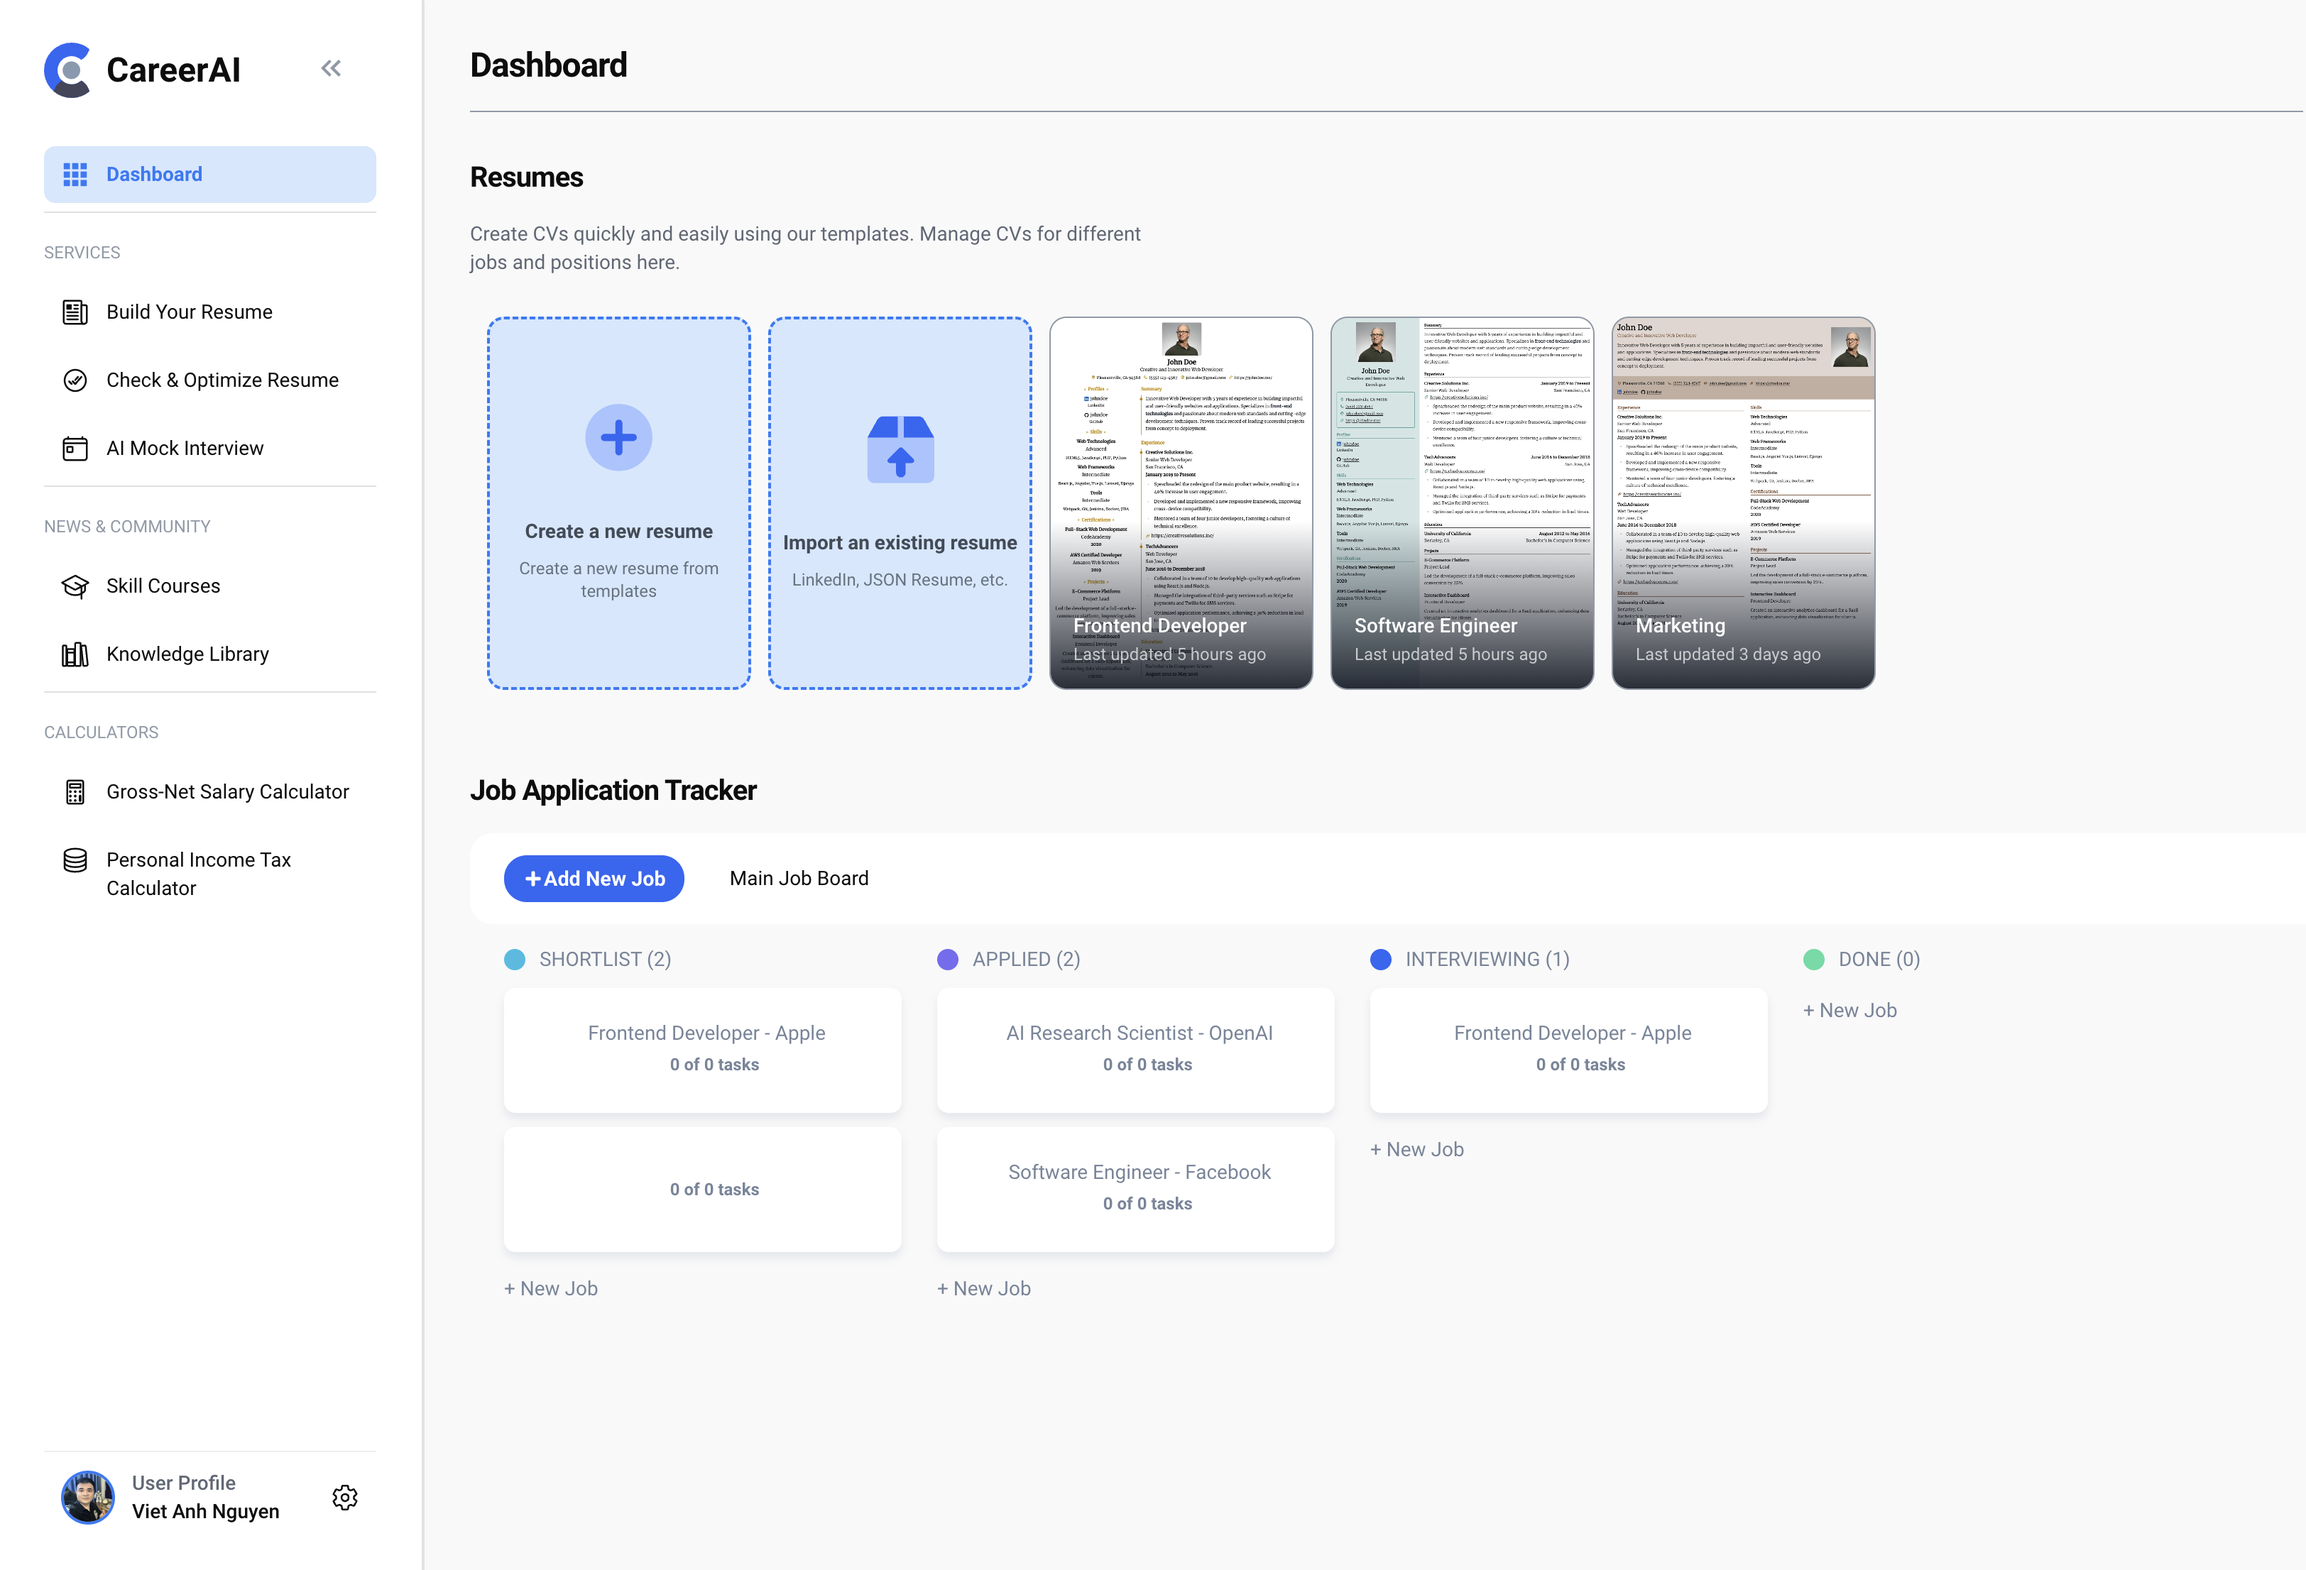
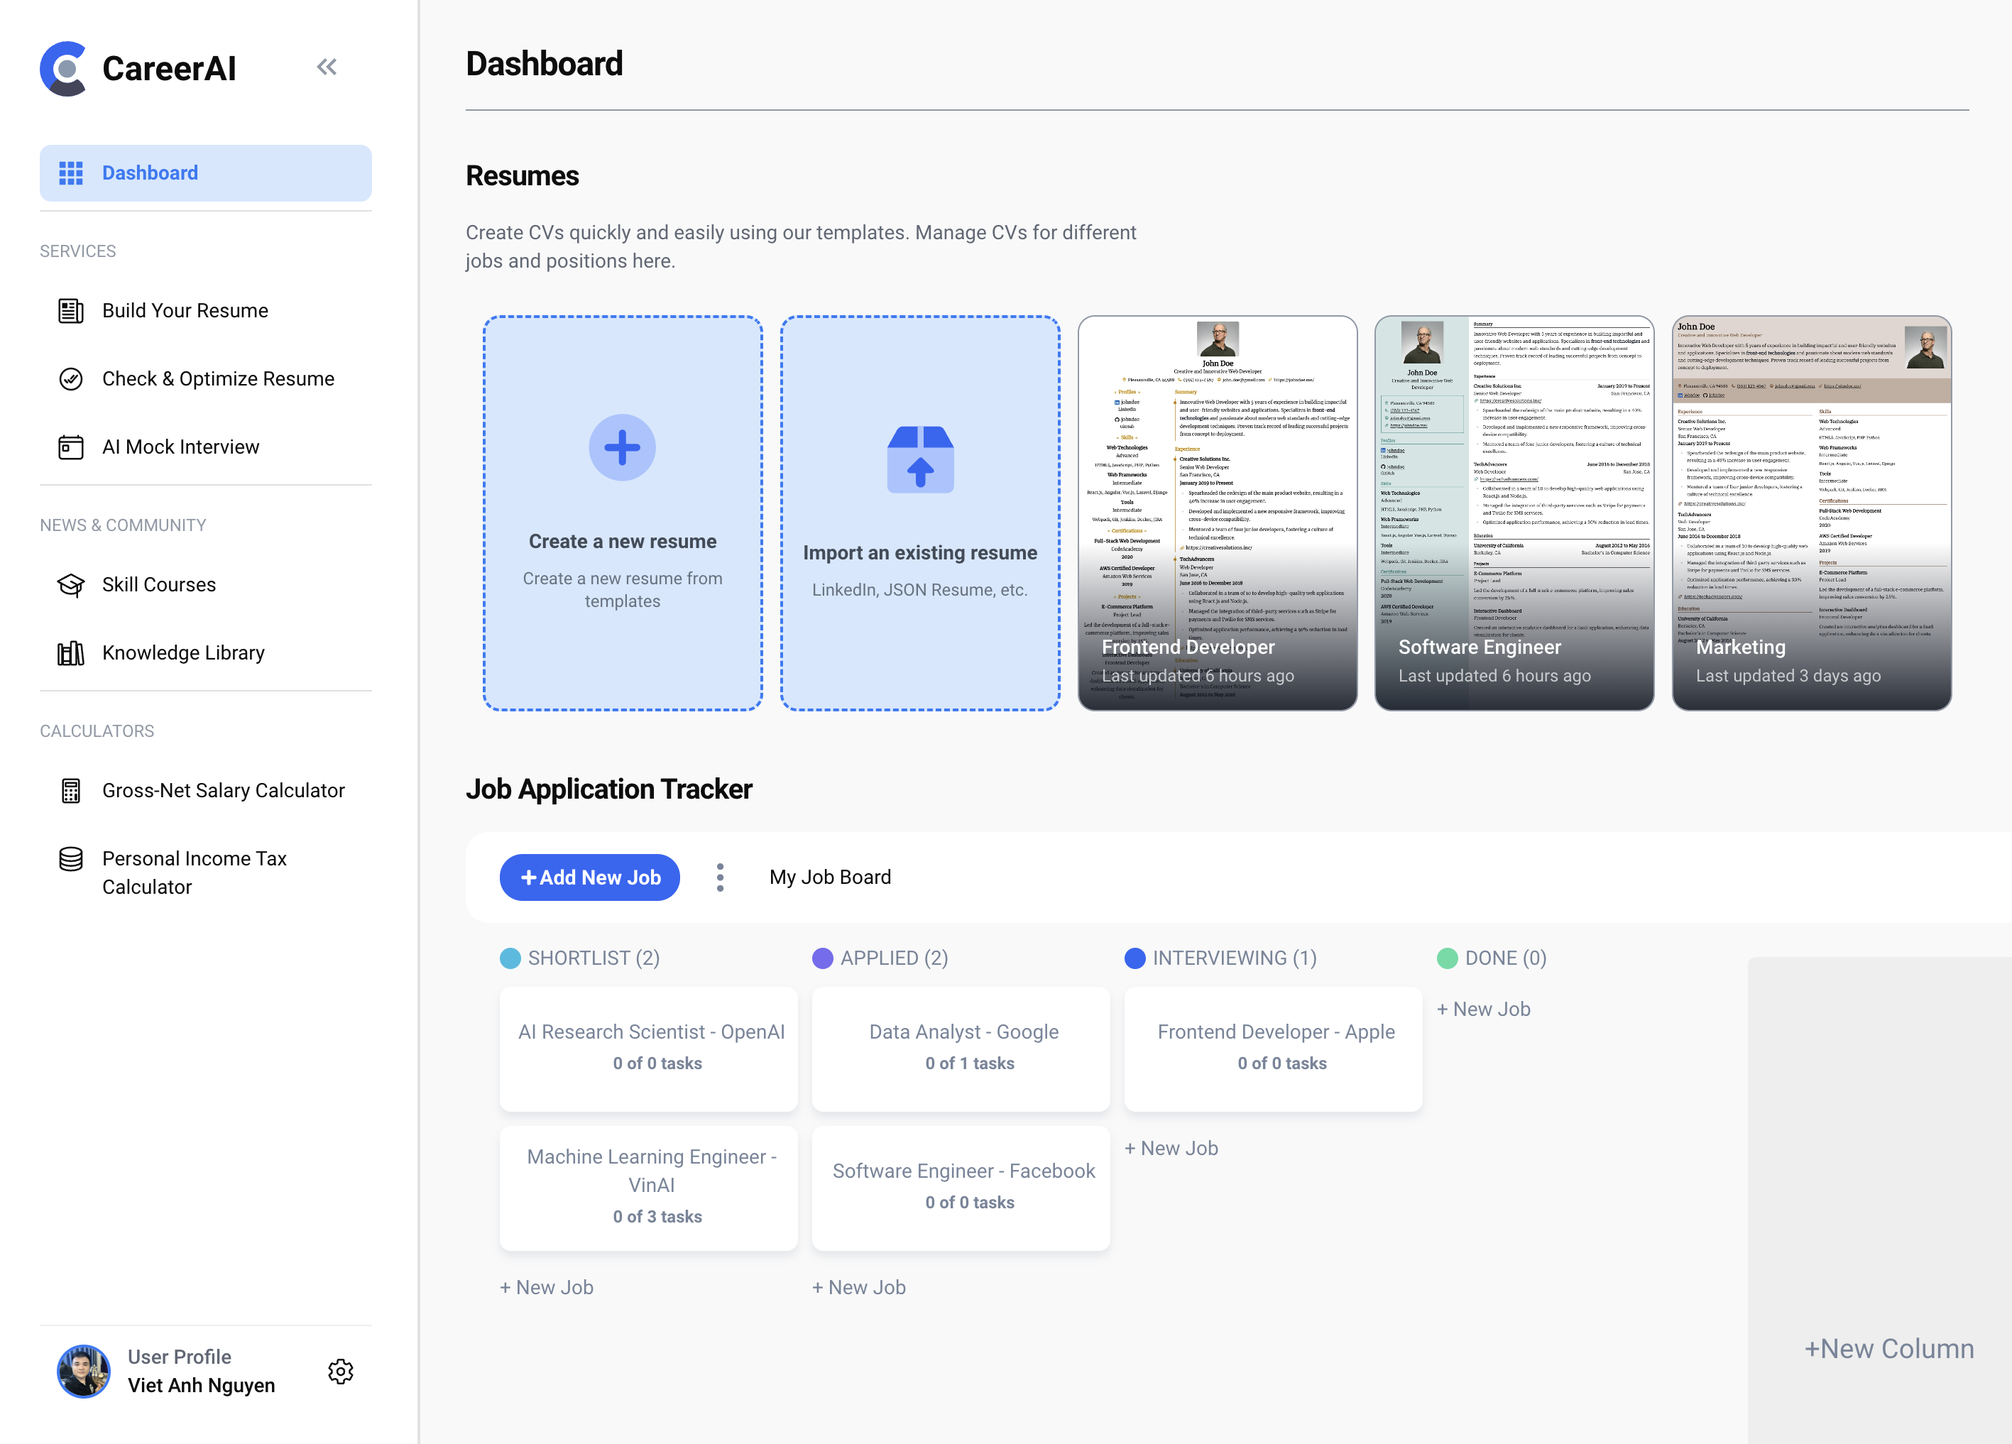
Compact columns for job applications

diff --git a/apps/client/src/pages/dashboard/dashboard/components/Options.tsx b/apps/client/src/pages/dashboard/dashboard/components/Options.tsx
@@ -9,7 +9,7 @@ import { BoardTypes, ColumnTypes, KanbanTypes, TaskTypes } from "../types";
 import WarnModal from "./WarnModal";
 import EditTaskModal from "./EditTaskModal";
 import { updateJobApplications } from "@/client/services/job-applications";
-import { sampleData } from "../store/boards";
+import { sampleData, sampleEmptyData } from "../store/boards";
 
 interface OptionsProps {
   activeBoard: BoardTypes;
@@ -24,6 +24,10 @@ const Options: FC<OptionsProps> = ({ activeBoard, optionsType, activeColumn, act
     await updateJobApplications(sampleData);
     window.location.reload();
   };
+  const fillBoardWithEmpty = async () => {
+    await updateJobApplications(sampleEmptyData);
+    window.location.reload();
+  };
 
   return (
     <Popover.Root open={isOpen} onOpenChange={setIsOpen}>
@@ -34,7 +38,7 @@ const Options: FC<OptionsProps> = ({ activeBoard, optionsType, activeColumn, act
       </Popover.Trigger>
 
       <Popover.Portal>
-        <Popover.Content className={styles.PopoverContent} sideOffset={20} align="end">
+        <Popover.Content className={styles.PopoverContent} sideOffset={10} align="end">
           {optionsType === KanbanTypes.Board ? (
             <>
               <EditBoardModal activeBoard={activeBoard!} hideBoardOptions={setIsOpen}>
@@ -42,7 +46,10 @@ const Options: FC<OptionsProps> = ({ activeBoard, optionsType, activeColumn, act
                   <h3 className={styles.Edit}>Edit {optionsType}</h3>
                 </button>
               </EditBoardModal>
-              <button className="text-orange-500 font-bold pt-2" onClick={fillBoardWithExamples}>
+              <button className="text-gray-500 pt-2" onClick={fillBoardWithEmpty}>
+                <span className={styles.SpanText}>Clear board</span>
+              </button>
+              <button className="text-blue-500 pt-2" onClick={fillBoardWithExamples}>
                 <span className={styles.SpanText}>Fill board with examples</span>
               </button>
               {/* <WarnModal type={optionsType} activeBoard={activeBoard}>

diff --git a/apps/client/src/pages/dashboard/dashboard/store/boards.ts b/apps/client/src/pages/dashboard/dashboard/store/boards.ts
@@ -1,3 +1,36 @@
+export const sampleEmptyData = [
+  {
+    id: "430224fb-29f5-466a-a309-693f9344333b",
+    title: "My Job Board",
+    columns: [
+      {
+        title: "Shortlist",
+        id: "126b20e0-f1e8-4785-abb3-939bb6b86b98",
+        ovalColor: "#49c4e5",
+        tasks: [],
+      },
+      {
+        title: "Applied",
+        id: "91a3765a-2302-4a7b-b9bc-fc154332a9d9",
+        ovalColor: "#8471F2",
+        tasks: [],
+      },
+      {
+        title: "Interviewing",
+        id: "69b52385-ca1f-40c9-991c-2fea5089102d",
+        ovalColor: "#3D6CF5",
+        tasks: [],
+      },
+      {
+        title: "Done",
+        id: "69b52385-ca1f-40c9-991c-2fea5989102d",
+        ovalColor: "#67E2AE",
+        tasks: [],
+      },
+    ],
+  },
+];
+
 export const sampleData = [
   {
     id: "430224fb-29f5-466a-a309-693f9344333b",

diff --git a/apps/client/src/pages/dashboard/dashboard/styles/components/board/Board.module.scss b/apps/client/src/pages/dashboard/dashboard/styles/components/board/Board.module.scss
@@ -1,7 +1,7 @@
 @use "../../abstracts/index" as *;
 
 .EmptyBoard {
-  width: 80%;
+  width: 100%;
   margin-inline: auto;
   text-align: center;
   height: 600px;
@@ -9,7 +9,7 @@
   justify-content: center;
   flex-direction: column;
   align-items: center;
-  gap: 10px;
+  gap: 5px;
 }
 
 .ColumnsContainer {
@@ -31,16 +31,16 @@
     display: flex;
     justify-content: center;
     align-items: center;
-    @include ts-heading-xl;
+    font-size: 1.2rem;
     color: $mediumGrey;
     border-radius: 6px;
-    margin: 48px 14px;
+    margin: 24px 14px;
     max-height: 600px;
-    min-width: 280px;
-    background: var(--gradient);
+    min-width: 200px;
+    background: #f0f0f0;
     &:hover {
       color: $mediumGreyHover;
-      background: var(--gradientHover);
+      background: #f5f5f5;
     }
   }
 }

diff --git a/apps/client/src/pages/dashboard/dashboard/styles/components/board/Column.module.scss b/apps/client/src/pages/dashboard/dashboard/styles/components/board/Column.module.scss
@@ -2,7 +2,7 @@
 
 .ColumnContainer {
   margin: 10px;
-  width: 285px;
+  width: 200px;
   border-radius: 15px;
   padding: 5px;
   background-color: none;
@@ -17,7 +17,7 @@
 
 .IsDragging {
   border-radius: 15px;
-  width: 290px;
+  width: 200px;
   padding: 5px;
 
   background-color: transparentColor(0.01, $darkGrey);
@@ -29,7 +29,7 @@
 .ColumnHeader {
   display: flex;
   align-items: center;
-  gap: 10px;
+  gap: 5px;
   text-transform: uppercase;
 
   &:hover {

diff --git a/apps/client/src/pages/dashboard/dashboard/styles/components/board/Task.module.scss b/apps/client/src/pages/dashboard/dashboard/styles/components/board/Task.module.scss
@@ -2,7 +2,7 @@
 
 .Task {
   margin-top: 10px;
-  width: 280px;
+  width: 210px;
   min-height: 88px;
   max-height: 160px;
   border-radius: 8px;
@@ -12,7 +12,7 @@
   flex-direction: column;
   justify-content: center;
 
-  max-width: 280px;
+  max-width: 250px;
 
   .Title {
     overflow: hidden;
